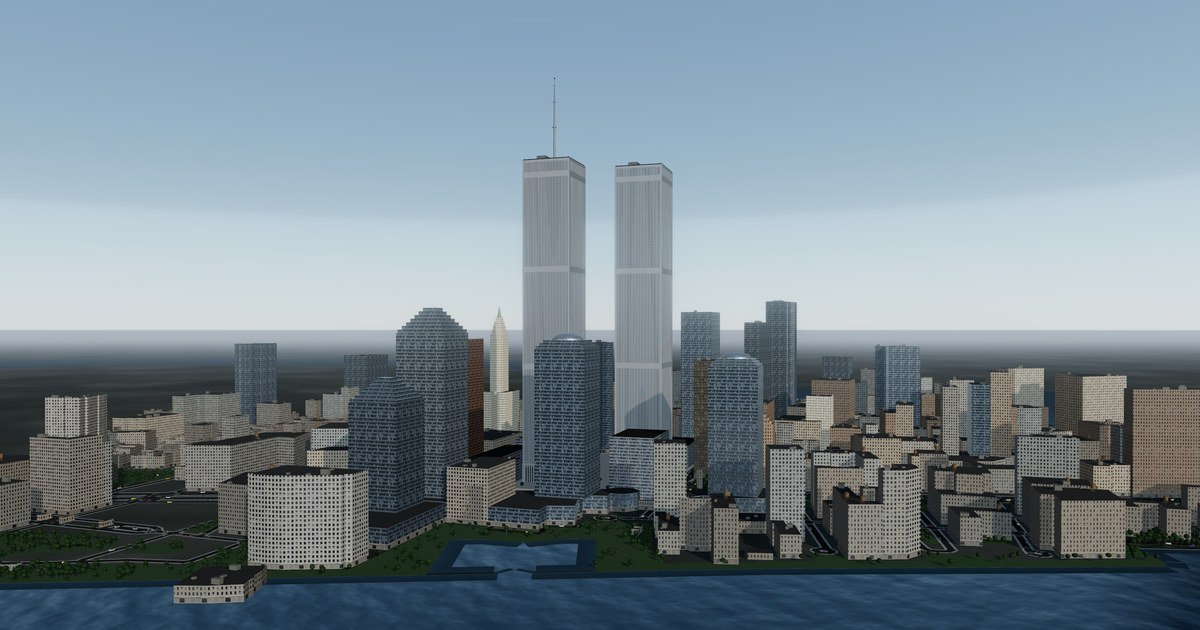
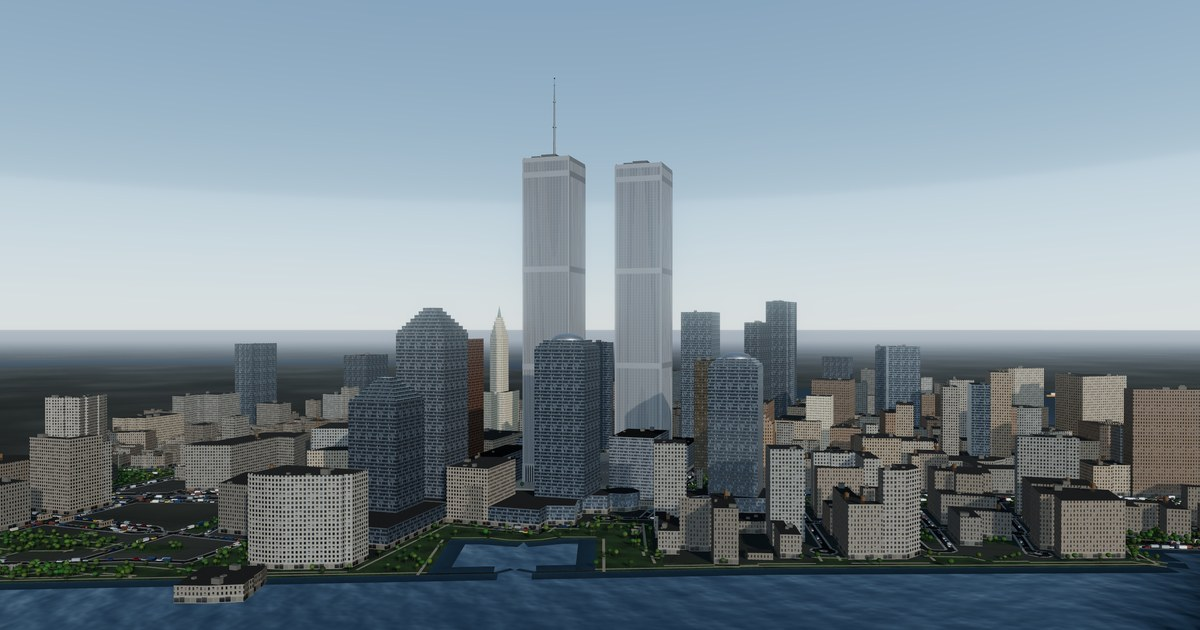
Sky pass: a sun rather than a flare, and a horizon that joins up
The sun
- It is drawn by the Mie term of the sky model, and the asymmetry of that
  scattering lobe sets the size of the disc. At the default 0.82 it was not a
  sun at all: a blob some twenty degrees across, clipping to white with a hard
  curved edge where it fell out of range. At 0.9925 it is a disc with a halo.
  Still larger than the half degree the real one subtends — a low sun through
  haze does read large — but a sun.
- Turbidity down with it, since the old value was doing some of the same
  washing out.

The horizon
- The haze took its colour from the full sun-side dusk palette, which made it
  more saturated than the sky it was supposed to be dissolving into. Wherever
  the far shore reached the fog limit that drew a salmon bar along the horizon
  with a razor edge on it — worst looking away from the sun, where the sky is
  muted and the bar was not. The haze now takes a gentler dose of the sunset
  than the ambient does, and the anti-solar sky runs unbroken from zenith to
  ground.

No clouds, and that is a decision rather than an omission. The morning this
model is set on was exceptionally clear, and that is one of the first things
people who were there remember. Weather in the sky would be a more elaborate
model and a less accurate one. Said so in the README rather than leaving it to
look unfinished.

diff --git a/wtc.html b/wtc.html
@@ -62366,6 +62366,7 @@ const SHELF_DAY = new THREE.Color(0x21414f);
 const SHELF_NIGHT = new THREE.Color(0x0d1725);
 const _c = new THREE.Color();
 const _fog = new THREE.Color();
+const _hz = new THREE.Color();
 
 const smooth = THREE.MathUtils.smoothstep;
 const mix = THREE.MathUtils.lerp;
@@ -62414,10 +62415,15 @@ function applyTime(hour) {
   nightSky.visible = dusk > 0.001;
   const u = sky.material.uniforms;
   u.sunPosition.value.copy(dir);
-  u.turbidity.value = 2.2 + warm * 6.0;
+  u.turbidity.value = 2.0 + warm * 3.2;
   u.rayleigh.value = 0.5 + warm * 2.6;
-  u.mieCoefficient.value = 0.003 + warm * 0.013;
-  u.mieDirectionalG.value = 0.82;
+  // Mie scattering is what draws the sun. The asymmetry g sets how tight the
+  // forward lobe is, and at 0.82 it was not a sun at all: a blob some twenty
+  // degrees across, clipping to white with a hard curved edge where it fell
+  // out of range. A low sun through haze does read large, so this is not the
+  // half a degree the disc really subtends — but it is a sun now.
+  u.mieCoefficient.value = 0.0028 + warm * 0.0018;
+  u.mieDirectionalG.value = 0.9935 - warm * 0.001;
 
   const n = nightSky.material.uniforms;
   n.uSunDir.value.copy(dir);
@@ -62432,6 +62438,11 @@ function applyTime(hour) {
   n.uStars.value = smooth(e, -11.0, -6.0) * 0.42;
 
   _c.copy(SKY_DAY).lerp(SKY_DUSK, warm * 0.85);
+  // The haze takes a gentler dose of the sunset than the ambient does. Given
+  // the full sun-side colour it came out more saturated than the sky it was
+  // supposed to be dissolving into, which drew a salmon bar along the horizon
+  // wherever the far shore reached the fog limit.
+  _hz.copy(SKY_DAY).lerp(SKY_DUSK, warm * 0.52);
   // Sky glow and moonlight after dark. With neither, the buildings vanish and
   // the windows read as grids floating in a void; ACES crushes the low end
   // hard, so this needs a good deal more than it looks like it should.
@@ -62449,7 +62460,7 @@ function applyTime(hour) {
   fill.intensity = mix(0.06 + 0.20 * up, 0.33, dusk);
   fill.color.copy(FILL_DAY).lerp(MOON, dusk);
 
-  _fog.copy(_c).lerp(WHITE, 0.22 * (1 - warm * 0.7));
+  _fog.copy(_hz).lerp(WHITE, 0.22 * (1 - warm * 0.7));
   // Haze approaches the radiance of the sky behind it, and at sunset that sky
   // is dim. Taking the fog straight from the sunset colour made the far water
   // more than twice as bright as the sky immediately above it, which put a

diff --git a/src/main.js b/src/main.js
@@ -105,6 +105,7 @@ const SHELF_DAY = new THREE.Color(0x21414f);
 const SHELF_NIGHT = new THREE.Color(0x0d1725);
 const _c = new THREE.Color();
 const _fog = new THREE.Color();
+const _hz = new THREE.Color();
 
 const smooth = THREE.MathUtils.smoothstep;
 const mix = THREE.MathUtils.lerp;
@@ -153,10 +154,15 @@ function applyTime(hour) {
   nightSky.visible = dusk > 0.001;
   const u = sky.material.uniforms;
   u.sunPosition.value.copy(dir);
-  u.turbidity.value = 2.2 + warm * 6.0;
+  u.turbidity.value = 2.0 + warm * 3.2;
   u.rayleigh.value = 0.5 + warm * 2.6;
-  u.mieCoefficient.value = 0.003 + warm * 0.013;
-  u.mieDirectionalG.value = 0.82;
+  // Mie scattering is what draws the sun. The asymmetry g sets how tight the
+  // forward lobe is, and at 0.82 it was not a sun at all: a blob some twenty
+  // degrees across, clipping to white with a hard curved edge where it fell
+  // out of range. A low sun through haze does read large, so this is not the
+  // half a degree the disc really subtends — but it is a sun now.
+  u.mieCoefficient.value = 0.0028 + warm * 0.0018;
+  u.mieDirectionalG.value = 0.9935 - warm * 0.001;
 
   const n = nightSky.material.uniforms;
   n.uSunDir.value.copy(dir);
@@ -171,6 +177,11 @@ function applyTime(hour) {
   n.uStars.value = smooth(e, -11.0, -6.0) * 0.42;
 
   _c.copy(SKY_DAY).lerp(SKY_DUSK, warm * 0.85);
+  // The haze takes a gentler dose of the sunset than the ambient does. Given
+  // the full sun-side colour it came out more saturated than the sky it was
+  // supposed to be dissolving into, which drew a salmon bar along the horizon
+  // wherever the far shore reached the fog limit.
+  _hz.copy(SKY_DAY).lerp(SKY_DUSK, warm * 0.52);
   // Sky glow and moonlight after dark. With neither, the buildings vanish and
   // the windows read as grids floating in a void; ACES crushes the low end
   // hard, so this needs a good deal more than it looks like it should.
@@ -188,7 +199,7 @@ function applyTime(hour) {
   fill.intensity = mix(0.06 + 0.20 * up, 0.33, dusk);
   fill.color.copy(FILL_DAY).lerp(MOON, dusk);
 
-  _fog.copy(_c).lerp(WHITE, 0.22 * (1 - warm * 0.7));
+  _fog.copy(_hz).lerp(WHITE, 0.22 * (1 - warm * 0.7));
   // Haze approaches the radiance of the sky behind it, and at sunset that sky
   // is dim. Taking the fog straight from the sunset colour made the far water
   // more than twice as bright as the sky immediately above it, which put a

diff --git a/README.md b/README.md
@@ -198,7 +198,18 @@ Twin Towers is.
 
 **Light and water.** The sun is placed from real solar geometry for 40.71° N
 on 11 September, so shadow directions through the day are the ones the site
-actually had. Reflections come from a cube probe rendered over the site, so
+actually had. It is drawn by the Mie term of the sky model, and the asymmetry
+of that scattering lobe is what sets the size of the disc: the default 0.82
+gives something twenty degrees across that clips to white with a hard curved
+edge where it falls out of range. A low sun through haze does read large, so
+what is here is still not the half a degree the disc really subtends — but it
+is a sun rather than a flare.
+
+The sky carries no cloud, and that is deliberate rather than unfinished. The
+morning this model is set on was exceptionally clear — the kind of visibility
+pilots call severe clear — and it is one of the things people who were there
+remember first. Putting weather in the sky would be a more elaborate model and
+a less accurate one. Reflections come from a cube probe rendered over the site, so
 the towers' aluminium and the surface of the river pick up the actual skyline
 rather than just the sky.
 
@@ -207,6 +218,12 @@ couple of degrees above the horizon rather than being turned off at it, and
 every night setting — sky, ambient, exposure, haze, bloom, the colour of the
 water — crossfades across civil twilight. Drag the slider through 19:07 and
 the light goes out the way it goes out.
+
+Haze takes a gentler dose of the sunset than the ambient light does. Given the
+full sun-side colour it came out more saturated than the sky it was supposed to
+be dissolving into, and drew a salmon bar along the horizon wherever the far
+shore reached the fog limit — worst of all looking *away* from the sun, where
+the sky is muted and the bar was not.
 
 The rivers are modelled as a dielectric rather than a metal, which is what
 gives water its behaviour: its own dark blue-green looking down, turning to a
